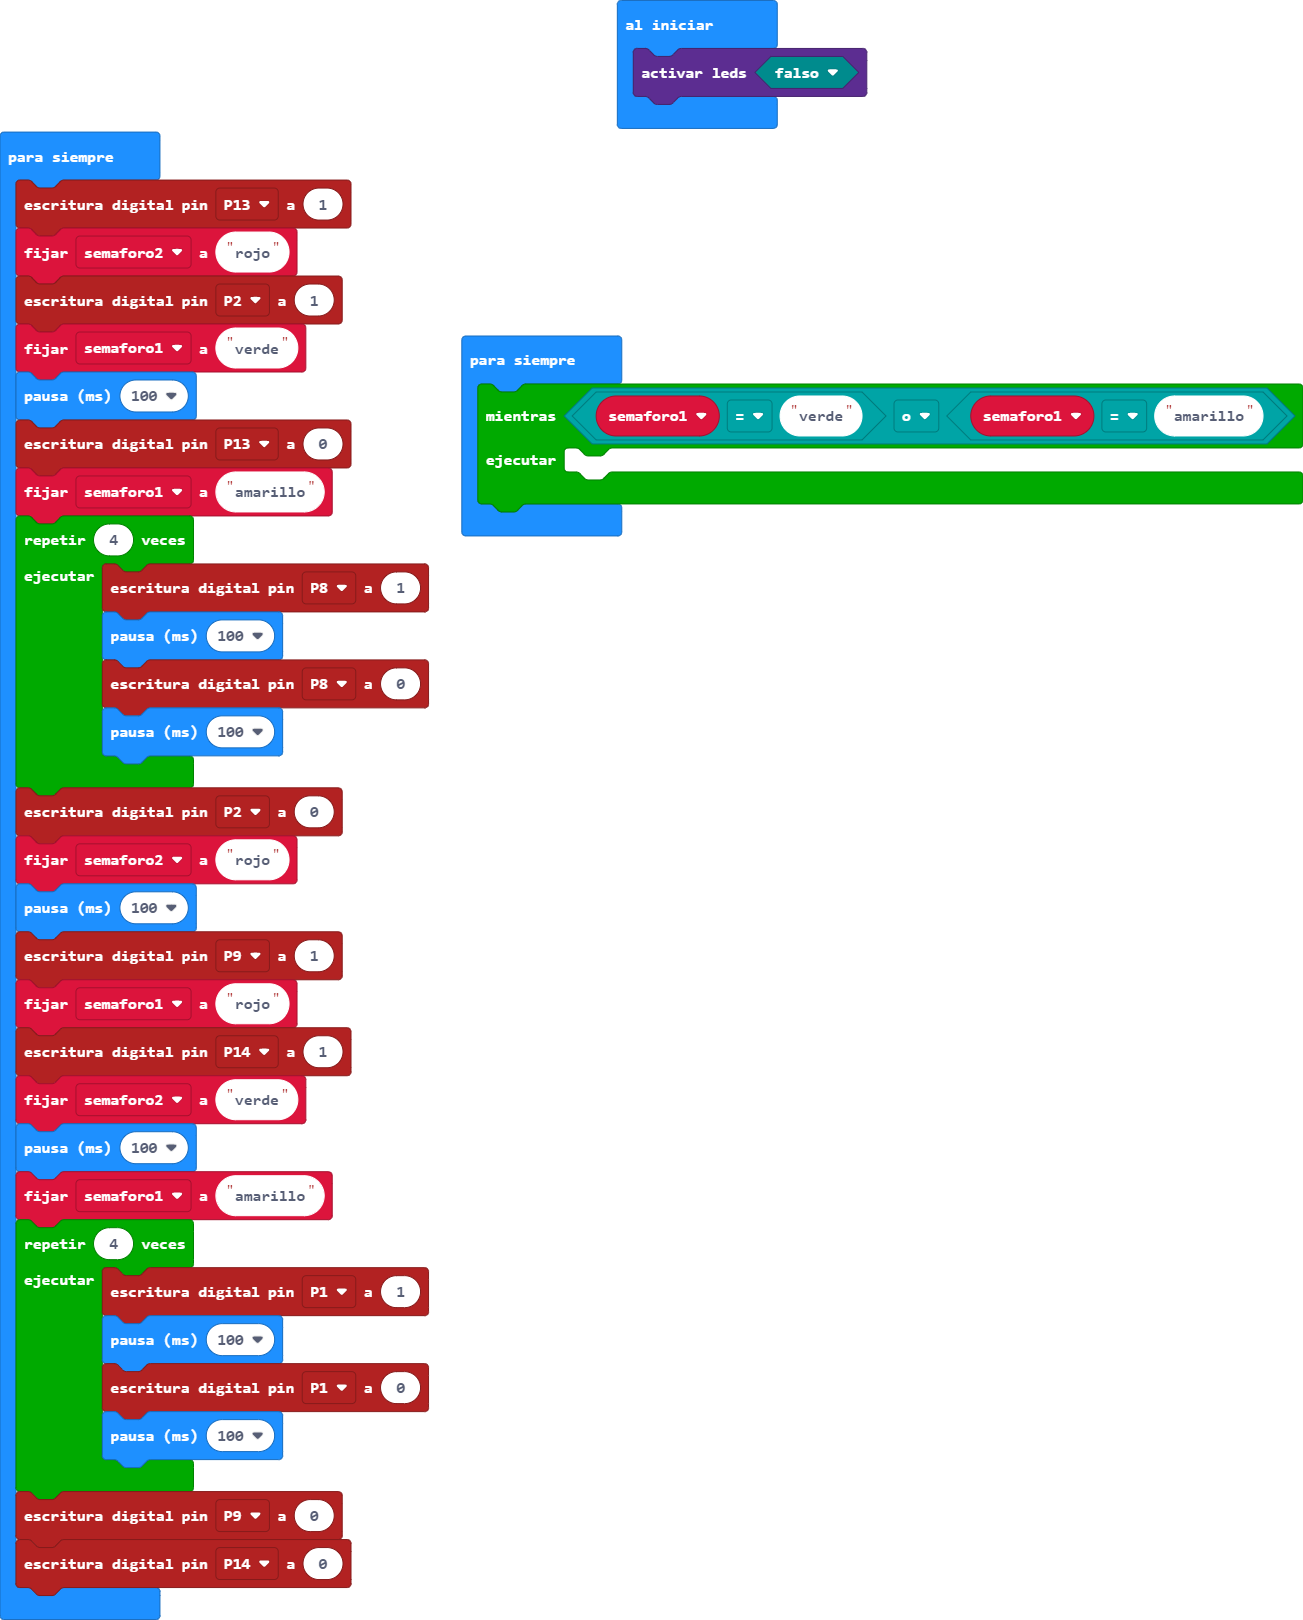
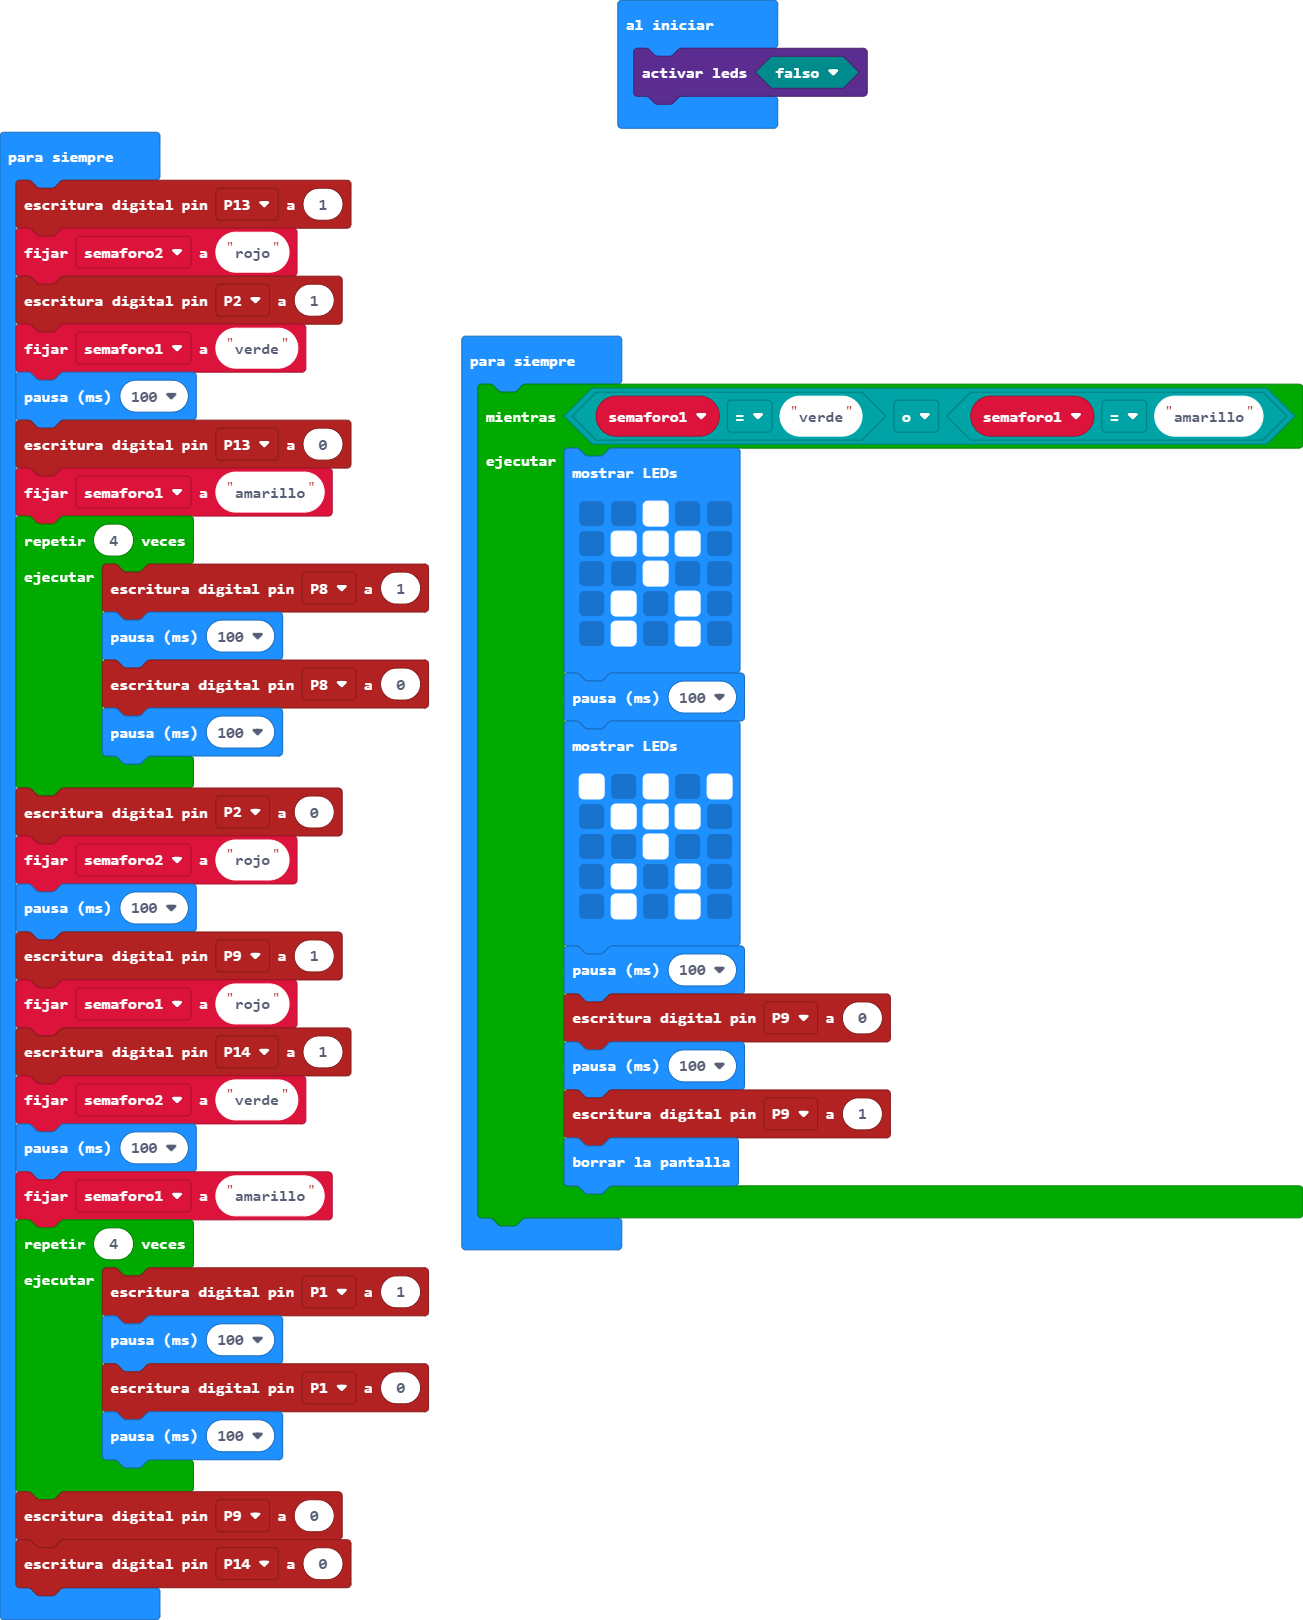
Actualizar main.blocks, main.ts

diff --git a/main.ts b/main.ts
@@ -35,6 +35,25 @@ basic.forever(function () {
 })
 basic.forever(function () {
     while (semaforo1 == "verde" || semaforo1 == "amarillo") {
-    	
+        basic.showLeds(`
+            . . # . .
+            . # # # .
+            . . # . .
+            . # . # .
+            . # . # .
+            `)
+        basic.pause(100)
+        basic.showLeds(`
+            # . # . #
+            . # # # .
+            . . # . .
+            . # . # .
+            . # . # .
+            `)
+        basic.pause(100)
+        pins.digitalWritePin(DigitalPin.P9, 0)
+        basic.pause(100)
+        pins.digitalWritePin(DigitalPin.P9, 1)
+        basic.clearScreen()
     }
 })
